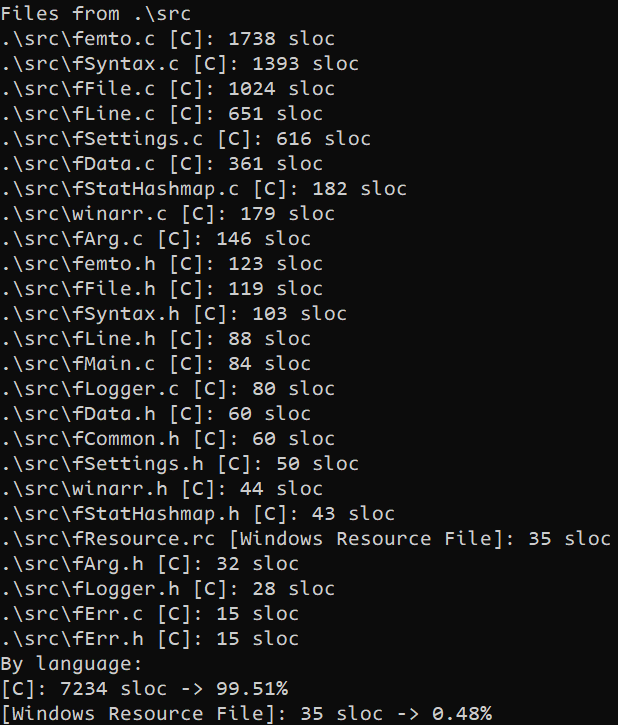
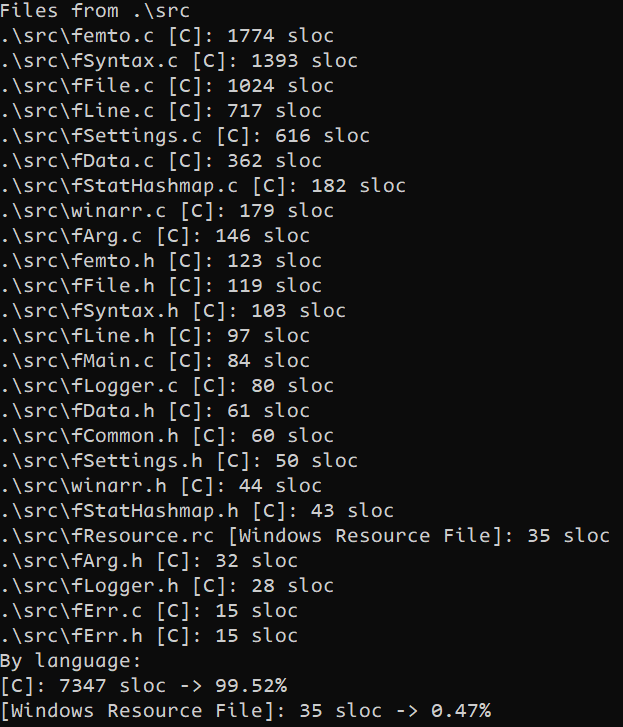
update sloc

Changed region(s): [[0.0, 0.0, 0.9838, 1.0], [0.6456, 0.971, 0.7994, 1.0]]

diff --git a/README.md b/README.md
@@ -13,7 +13,7 @@ It is also written in vanilla C & Win32 Console API - it's designed to be used s
 It has been compiled with MinGW GCC.
 
 Currently, my other tool [slocWin32](https://github.com/makuke1234/slocWin32)
-reports ~7200 source code lines (excluding whitespace, comments, language keywords & [jsonlite2](https://github.com/makuke1234/jsonlite2) library):
+reports ~7400 source code lines (excluding whitespace, comments, language keywords & [jsonlite2](https://github.com/makuke1234/jsonlite2) library):
 
 ![SLOC](./images/sloc.png)
 
